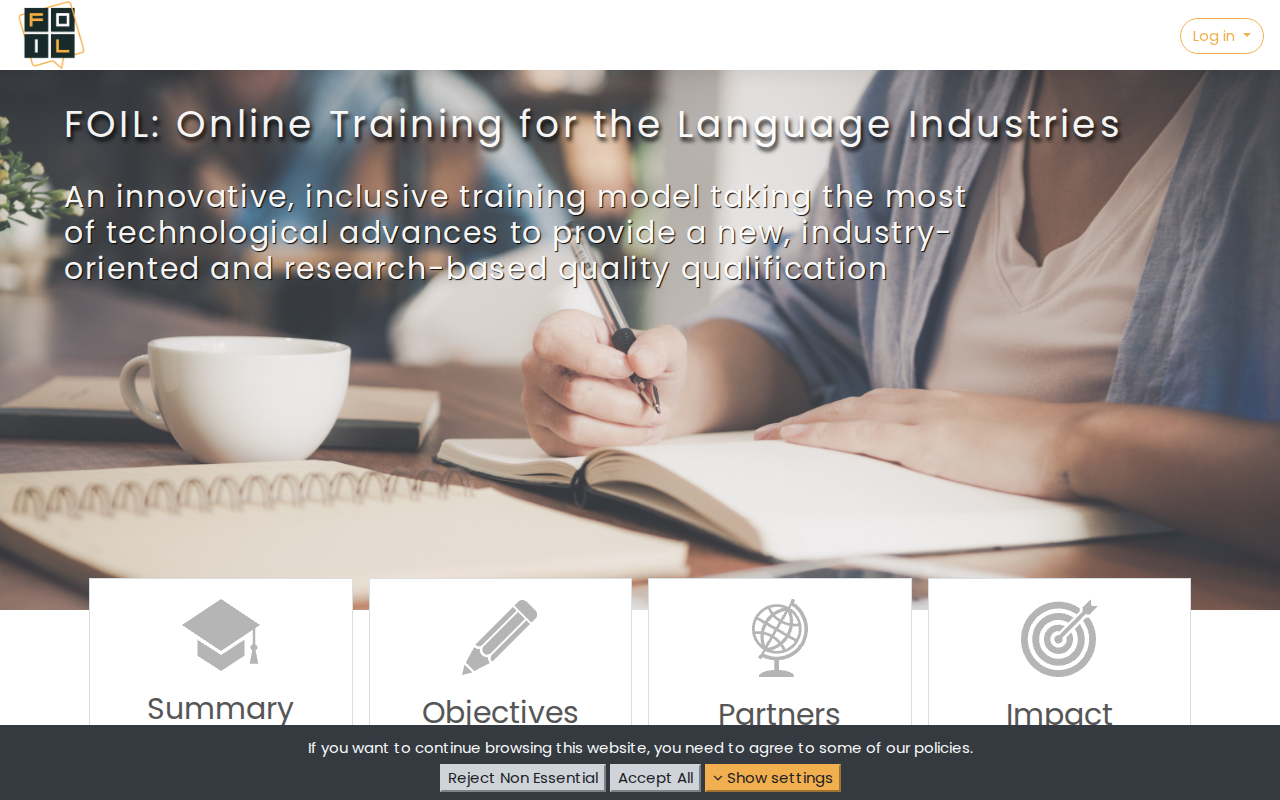
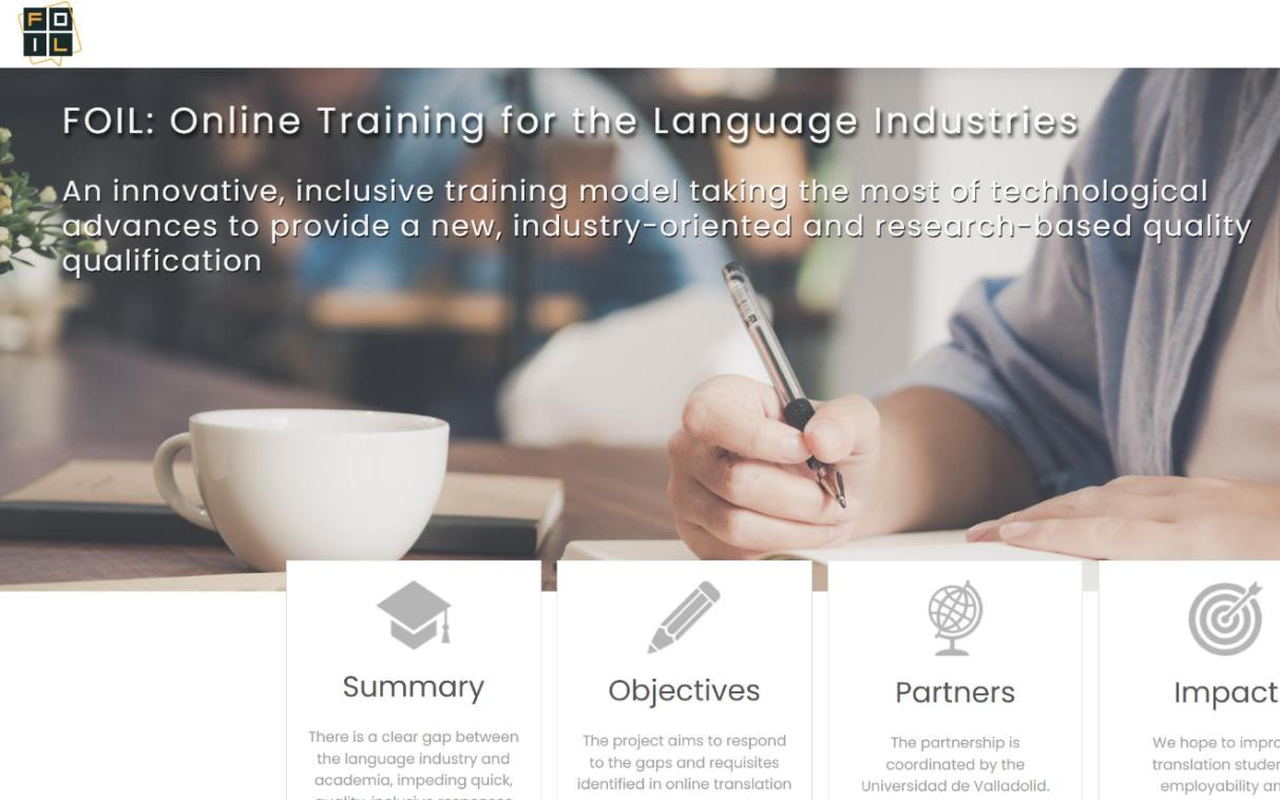
Home: remove Service list, fix ESIST name; FOIL thumbnail without cookie bar

diff --git a/index.md b/index.md
@@ -13,20 +13,10 @@ Curiosity and a tinkerer’s mindset led me from researching subtitling norms fo
 
 Since 2006, I have gained extensive experience at public universities (Hellenic Open University, Universitat Autònoma de Barcelona, and Universitat Pompeu Fabra) and private institutions, focusing on audiovisual translation and language education. I have also developed self-paced online subtitling courses for both local and global audiences.
 
-Being an active member of the community is important to me, so I serve as Vice President of the European Association of Studies in Screen Translation, co-founded the Women in Localization Greece Chapter, served on the board of the Hellenic Society for Translation Studies and as Vice President of the Disciplinary Board of the Panhellenic Association of Translators. I am also a member of the AI Localization Think Tank.
+Being an active member of the community is important to me, so I serve as Vice President of the European Association for Studies in Screen Translation, co-founded the Women in Localization Greece Chapter, served on the board of the Hellenic Society for Translation Studies and as Vice President of the Disciplinary Board of the Panhellenic Association of Translators. I am also a member of the AI Localization Think Tank.
 
 With formal studies in psychology dating back to the 1990s, I am now updating my knowledge in light of contemporary research on cognition, learning, and attention. I believe that cognitive abilities are not taken for granted any longer and may not be trained through work any more. Which means that we need lifelong cognitive training.
 
 I also believe that language and culture must be accessible to all, and that interdisciplinary teamwork is essential for complex challenges. It's also fun.
-
-## Service
-
-<ul class="field-list">
-  <li><span class="field-label">ESIST</span><span class="field-value">Vice President of the Board, European Association for Studies in Screen Translation (2019–)</span></li>
-  <li><span class="field-label">ΠΕΜ</span><span class="field-value">Vice President of the Disciplinary Board, Panhellenic Association of Translators (2024–2026); member since 2017</span></li>
-  <li><span class="field-label">AI Loc Think Tank</span><span class="field-value">Member, AI Localization Think Tank</span></li>
-  <li><span class="field-label">WL Greece</span><span class="field-value">Founding member, Women in Localization Greece chapter (2020–2022)</span></li>
-  <li><span class="field-label">ΕΕΜ</span><span class="field-value">Board member, Hellenic Society for Translation Studies (2022–2023)</span></li>
-</ul>
 
 [Read the research](/research/) &middot; [See the subtitles](/subtitles/) &middot; [Get in touch](/contact/)
